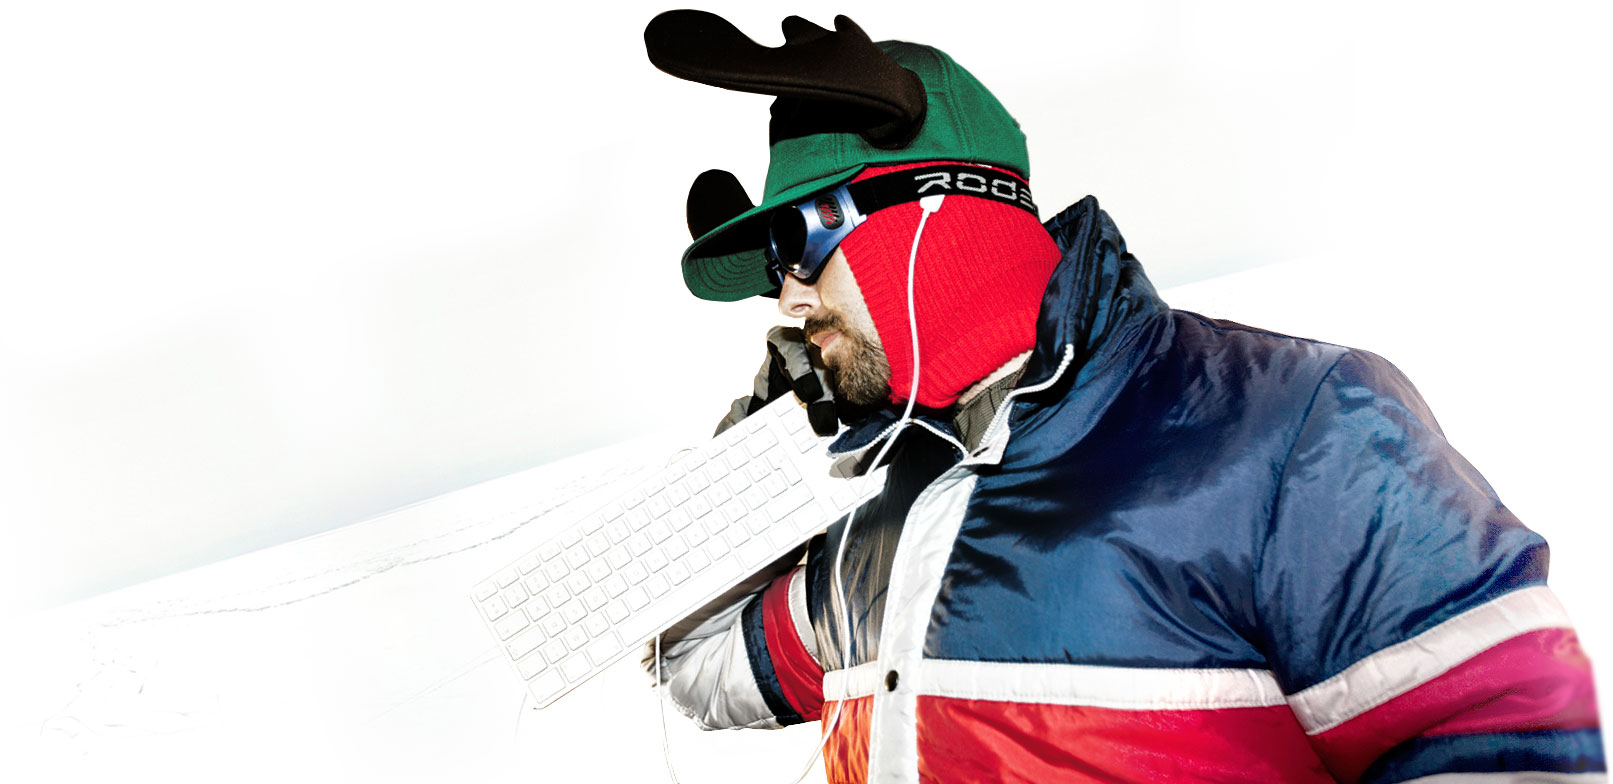
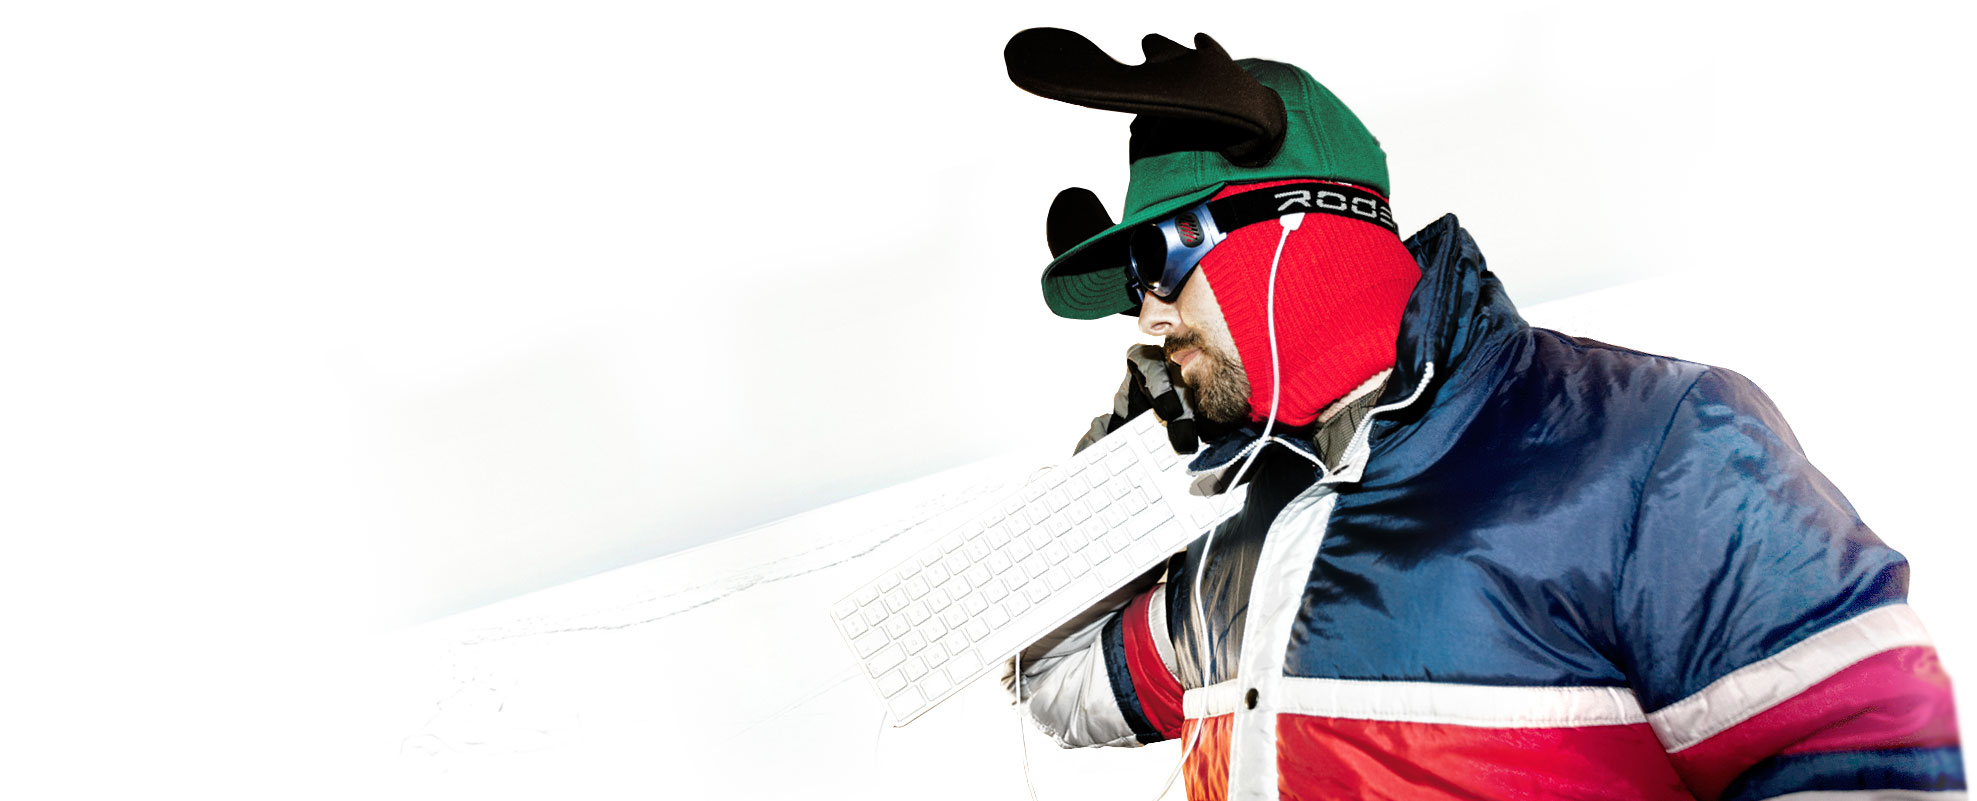
Visuals integration & design fine-tuning

diff --git a/web/assets/front/css/screen.css b/web/assets/front/css/screen.css
@@ -13,6 +13,7 @@ body {
 }
 h1, h2, h3, h4, h5, h6 {
     font-family: Lato, sans-serif;
+    letter-spacing: -0.01em;
 }
 h1.main-title {
     background-image: url(../images/main_title.png);
@@ -179,6 +180,10 @@ section.standard li {
     background:  url(../images/sprites.png) 0 -143px no-repeat;
 }
 /* HOMEPAGE */
+.home .wrapper {
+    background-image: url(../images/home.jpg);
+    background-position: center top;
+}
 .home div.split-3 img#mask-image {
     position: absolute;
     z-index: 100;
@@ -187,21 +192,25 @@ section.standard li {
     width: 97px;
     height: 105px;
 }
-/* main section */
-.home section.main {
-    padding: 90px 0 0 0;
-    margin: 0 0 50px 0;
+.home h1.home-title,
+.home h2.baseline {
+    position: absolute;
 }
-.home section.main h1 {
+.home h1.home-title {
     text-indent: -10000px;
-    margin: 0;
+    top: -60px;
+    left: 50%;
+    margin: 0 0 0 -480px;
+    z-index: 100;
     padding: 0;
     width: 271px;
     height: 102px;
     background: url(../images/sprites.png) 0 -15px no-repeat;
 }
-.home section.main h2 {
-    margin: 10px 0 0 0;
+.home h2.baseline {
+    top: 40px;
+    left: 50%;
+    margin: 10px 0 0 -480px;
     text-transform: uppercase;
     font-weight: 300;
     letter-spacing: -1px;
@@ -209,6 +218,12 @@ section.standard li {
     padding: 0;
     font-size: 24px;
 }
+/* main section */
+.home section.main {
+    padding: 0;
+    margin: 110px 0 50px 0;
+}
+
 .home section.main p {
     margin: 30px 0 0 0;
     width: 375px;
@@ -218,6 +233,9 @@ section.standard li {
     color: #333332;
 }
 /* projects */
+.home section.projects {
+    margin-top: 270px;
+}
 .home section.projects h2{
     background-position: right 0;
     width: 350px;
@@ -331,17 +349,21 @@ section.standard li {
 .contact h1.main-title {
     position: absolute;
     left: 0;
-    top: 50px;
     right: 50%;
     margin: 0;
     padding: 0 65px 0 35%;
     width: 480px;
 }
+.company h1.main-title {
+    top: 50px;
+}
+.contact h1.main-title {
+    top: 80px;
+}
 .company h2#mountain,
 .contact h2#mountain {
     position: absolute;
     left: 0;
-    top: -50px;
     right: 50%;
     margin: 0;
     padding: 0 0 0 35%;
@@ -350,6 +372,12 @@ section.standard li {
     height: 93px;
     text-indent: -10000px;
     background: url(../images/sprites.png) right -171px no-repeat;
+}
+.company h2#mountain {
+    top: -50px;
+}
+.contact h2#mountain {
+    top: -20px;
 }
 /* COMPANY */
 .company section.main {
@@ -373,6 +401,11 @@ section.standard li {
     background: url(../images/headings.png) right -95px no-repeat;
 }
 /* CONTACT */
+.contact .wrapper {
+    background-image: url(../images/contact.jpg);
+    background-position: center bottom;
+    min-height: 859px;
+}
 .contact section.main {
     margin-top: 300px;
     padding-left: 500px;
@@ -492,11 +525,31 @@ section.projects ul {
     padding: 0;
 }
 section.projects li {
-    margin: 0 0 20px 0;
+    margin: 24px 0 16px 0;
     list-style-type: none;
     float: left;
     width: 300px;
-    height: 207px;
+    height: 200px;
+    position: relative;
+    overflow: hidden;
+}
+section.projects li h3 {
+    font-weight: 700;
+    position: absolute;
+    top: -24px;
+    left: 0;
+    margin: 0;
+    width: 280px;
+    background: #e5e5e5;
+    color: #0a0a0a;
+    line-height: 24px;
+    font-size: 14px;
+    padding: 0 10px;
+    text-transform: uppercase;
+}
+section.projects li:hover {
+    background: #e5e5e5;
+    overflow: visible;
 }
 section.projects li:not(.three) {
     margin-right: 30px;
@@ -755,31 +808,39 @@ ul.social li.facebook a:hover {
 }
 /* FOOTER */
 footer {
-    height: 148px;
     border-top:  8px solid #8bc623;
-    padding: 0 0 30px 0;
+    padding: 10px 0;
     color: #fff;
     background-color: #0a0a0a;
 }
+footer div.full {
+    margin-bottom: 0;
+}
 footer section.contact {
-    width: 265px;
+    margin: 0;
+    overflow: hidden;
 }
-footer section.contact address {
-    margin: 20px 0 0 0;
-    font-style: normal;
+footer section.contact h3, footer section.contact p {
+    float: left;
     font-family: Lato, sans-serif;
-    font-weight: 300;
 }
-footer section.contact p.snowcap {
-    font-size: 25px;
-    margin: 0 0 10px 0;
+footer section.contact h3 {
     font-weight: 300;
+    font-size: 21px;
+    margin: 0 100px 2px 0;
+    font-weight: 300;
+    line-height: 38px;
+}
+footer section.contact p {
+    line-height: 40px;
+    margin: 0 100px 0 0;
 }
 footer section.contact a.twitter,
 footer section.contact a.facebook {
     float: left;
     text-indent: -10000px;
     height: 25px;
+    margin: 7px 0 8px 0;
     background-image: url(../images/sprites.png);
     background-repeat: no-repeat;
 }

diff --git a/web/assets/front/js/screen.js b/web/assets/front/js/screen.js
@@ -15,12 +15,10 @@
         _this.init = function() {
             _element.hover(
                 function(event) {
-                    _element.find('img').animate({'left': '+=' + _left}, 'fast');
-                    _element.find('span').show();
+                    _element.find('img').animate({'left': '+=' + _left}, 200);
                 },
                 function(event) {
-                    _element.find('img').animate({'left': '-=' + _left}, 'fast');
-                    _element.find('span').hide();
+                    _element.find('img').animate({'left': '-=' + _left}, 200);
                 }
             );
         };
